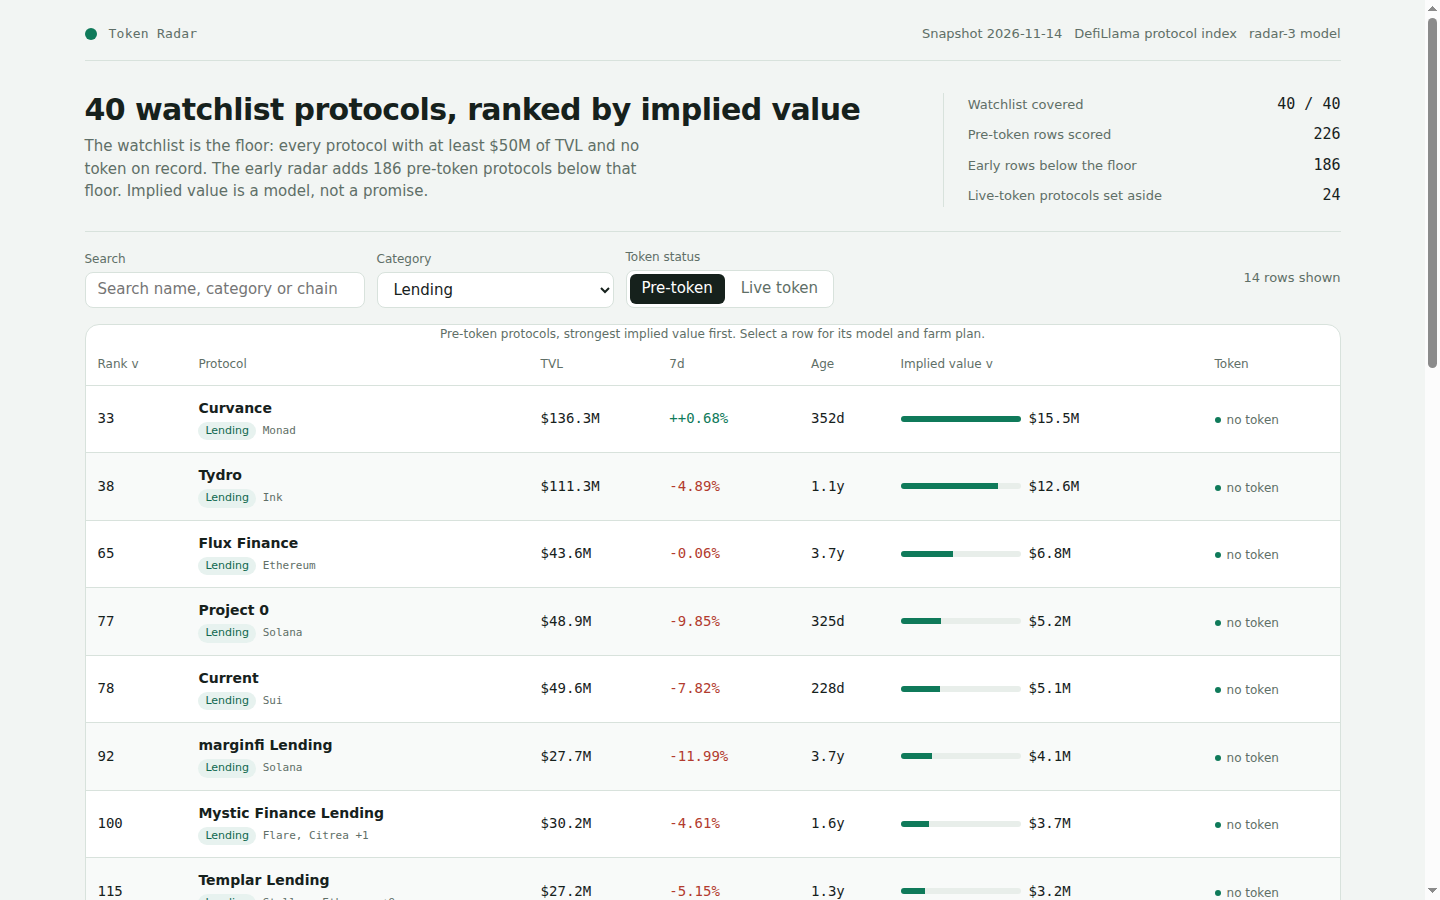
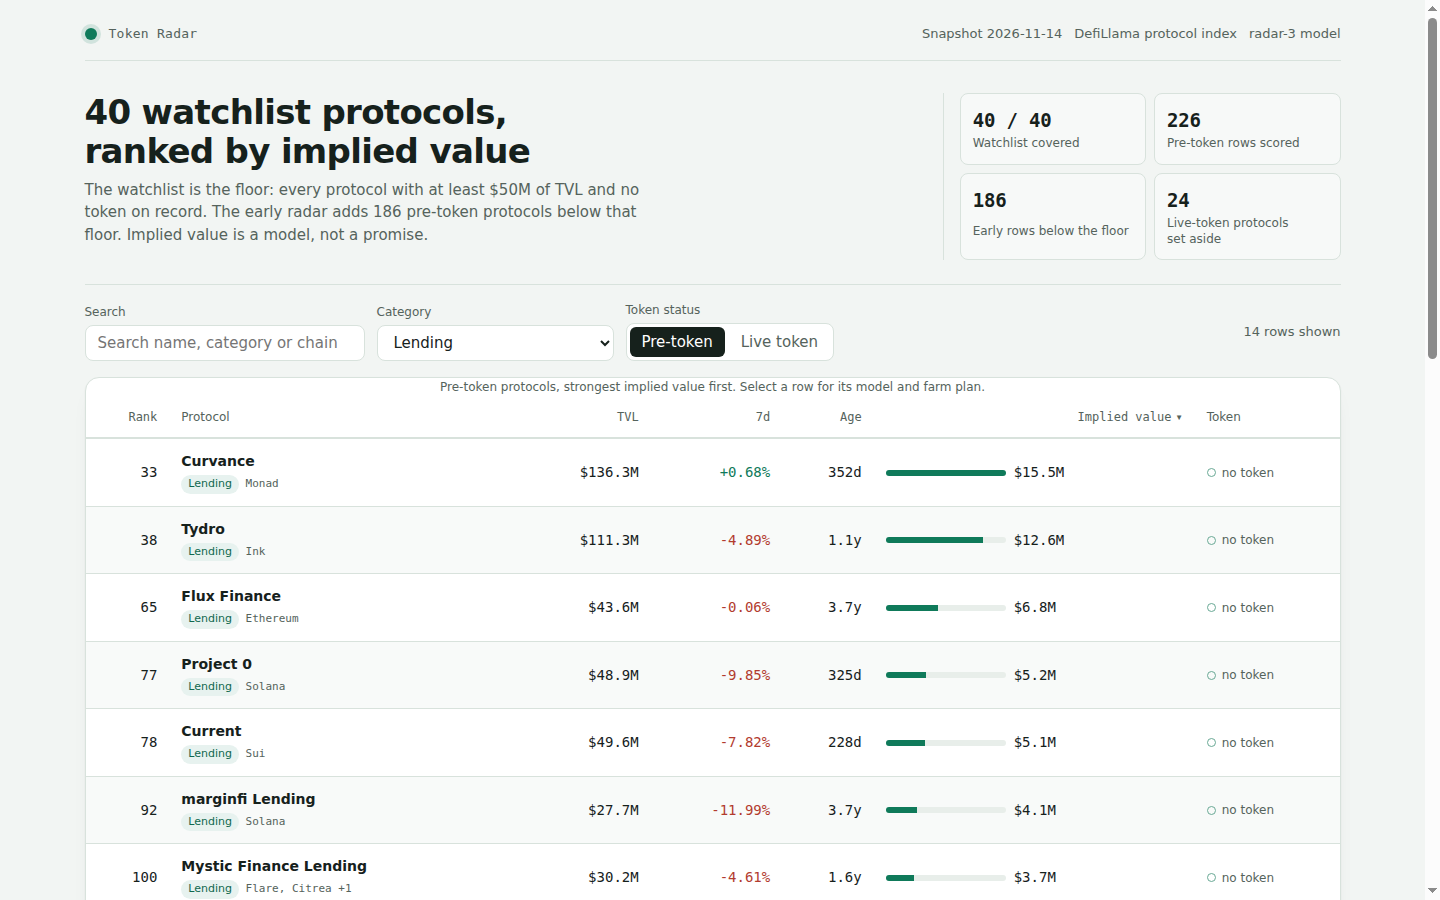
design: stat cards, sticky header, right-aligned numerics, correct sort chevrons, fixed double-plus

diff --git a/dashboard/app.js b/dashboard/app.js
@@ -97,47 +97,17 @@
     if (s.length < 20) s = s + " Hold the position and check the protocol's own page.";
     return s;
   }
-  function gasFor(chain) {
-    var c = (chain || '').toLowerCase();
-    if (c.indexOf('ethereum') >= 0) return 'about $4';
-    if (c.indexOf('arbitrum') >= 0 || c.indexOf('optimism') >= 0 || c.indexOf('base') >= 0 || c.indexOf('polygon') >= 0 || c.indexOf('unichain') >= 0 || c.indexOf('ink') >= 0 || c.indexOf('linea') >= 0 || c.indexOf('scroll') >= 0 || c.indexOf('blast') >= 0 || c.indexOf('mantle') >= 0 || c.indexOf('zksync') >= 0) return 'under $0.30';
-    if (c.indexOf('solana') >= 0 || c.indexOf('sui') >= 0 || c.indexOf('aptos') >= 0 || c.indexOf('near') >= 0) return 'under $0.05';
-    return 'about $1';
-  }
-
-  function riskNoteFor(p) {
-    var c = (p.category || '').toLowerCase();
-    if (c.indexOf('bridge') >= 0 || c.indexOf('canonical') >= 0) return 'bridges hold user funds in one contract, so read its audits and its current TVL before you bridge anything, and never bridge more than you would lose.';
-    if (c.indexOf('oracle') >= 0) return 'an oracle earns from being right, so check which feeds it serves and who pays for them before you stake or deposit anything.';
-    if (c.indexOf('cdp') >= 0 || c.indexOf('stable') >= 0) return 'a stable or CDP position can be liquidated, so keep the collateral ratio well above the minimum and watch the peg.';
-    if (c.indexOf('perpetual') >= 0 || c.indexOf('derivative') >= 0 || c.indexOf('leveraged') >= 0) return 'leverage liquidates, so size the position so a 30% move does not close it.';
-    if (c.indexOf('curator') >= 0 || c.indexOf('allocator') >= 0 || c.indexOf('risk') >= 0) return 'a curator allocates other people\'s capital, so read which vaults it runs and how its fee is charged before you deposit.';
-    return 'check the protocol\'s audits and its TVL trend on DefiLlama before you deposit, and start with the smallest position that still counts.';
-  }
-
-  function weeklyFor(p) {
-    var c = (p.category || '').toLowerCase();
-    if (c.indexOf('lend') >= 0 || c.indexOf('cdp') >= 0) return 'borrow a small amount against the deposit and repay it the same week, so both a supply and a borrow count.';
-    if (c.indexOf('dex') >= 0 || c.indexOf('yield') >= 0) return 'swap a small amount through the pool you funded, so the position shows trading volume as well as liquidity.';
-    if (c.indexOf('bridge') >= 0) return 'send a small transfer back across the bridge once a week, so the route stays active.';
-    if (c.indexOf('staking') >= 0 || c.indexOf('restak') >= 0) return 'claim and restake the rewards once a week, so the receipt keeps compounding.';
-    return 'make a deposit, a swap, a borrow or a vote.';
-  }
-
   function farmSteps(p) {
     var chain = chainOf(p);
     var capital = capitalFor(p);
     var hold = holdDaysFor(p.age_days);
-    var second = p.chains && p.chains.length >= 2 ? p.chains[1] : null;
-    var weekly = 'Then each week ' + weeklyFor(p);
     return [
       { text: 'Use a fresh wallet that holds only the funds you plan to farm, and keep its seed phrase offline.', cost: 'under $3 of gas for the first transaction', time: '5 minutes' },
-      { text: actionFor(p, capital, chain), cost: '$' + capital + ' of capital and ' + gasFor(chain) + ' of gas', time: '15 minutes to set up' },
-      { text: second === null ? weekly : 'Then repeat the position on ' + second + ' too, so the activity counts on ' + p.chains.length + ' chains, and each week ' + weeklyFor(p), cost: second === null ? gasFor(chain) + ' of gas a week' : gasFor(chain) + ' to ' + gasFor(second) + ' of gas a week across both chains', time: '10-20 minutes a week' },
+      { text: actionFor(p, capital, chain), cost: '$' + capital + ' of capital and about $' + (capital >= 150 ? 8 : 4) + ' of gas', time: '15 minutes to set up' },
+      { text: 'Make one qualifying action each week, such as a deposit, a borrow, a swap or a vote.', cost: 'about $2 of gas a week', time: '10 minutes a week' },
       { text: 'Hold the position for at least ' + hold + ' days so the activity is counted in more than one snapshot.', cost: 'the $' + capital + ' stays in the position', time: hold + ' days' },
       { text: "Before you withdraw, open the protocol's own points or rewards page and claim only from the link it publishes.", cost: 'no fee to check, and never pay to claim', time: '10 minutes' },
-      { text: 'Write the wallet, the dates and every transaction in a farm log so you can repeat the position or unwind it.', cost: 'nothing but the log', time: '5 minutes' },
-      { text: 'Before you commit, ' + riskNoteFor(p), cost: 'no fee to read, and worth an hour', time: '30-60 minutes' }
+      { text: 'Write the wallet, the dates and every transaction in a farm log so you can repeat the position or unwind it.', cost: 'nothing but the log', time: '5 minutes' }
     ].map(stepText);
   }
 
@@ -228,11 +198,11 @@
     );
   }
 
-  function sortHeader(key, label) {
-    return el('th', { scope: 'col' },
+  function sortHeader(key, label, numeric) {
+    return el('th', { scope: 'col', class: numeric ? 'num' : null },
       el('button', { type: 'button', onclick: function () { if (state.sort === key) state.dir = -state.dir; else { state.sort = key; state.dir = -1; } render(); } },
         label,
-        state.sort === key ? el('span', { 'aria-hidden': 'true', text: state.dir < 0 ? ' v' : ' ^' }) : null
+        state.sort === key ? el('span', { 'aria-hidden': 'true', text: state.dir < 0 ? ' \u25BE' : ' \u25B4' }) : null
       )
     );
   }
@@ -281,12 +251,12 @@
         el('table', null,
           el('caption', { class: 'sub', text: 'Pre-token protocols, strongest implied value first. Select a row for its model and farm plan.' }),
           el('thead', null, el('tr', null,
-            sortHeader('implied', 'Rank'),
-            sortHeader('name', 'Protocol'),
-            sortHeader('tvl', 'TVL'),
-            sortHeader('growth', '7d'),
-            sortHeader('age', 'Age'),
-            sortHeader('implied', 'Implied value'),
+            el('th', { scope: 'col', class: 'num', text: 'Rank' }),
+            sortHeader('name', 'Protocol', false),
+            sortHeader('tvl', 'TVL', true),
+            sortHeader('growth', '7d', true),
+            sortHeader('age', 'Age', true),
+            sortHeader('implied', 'Implied value', true),
             el('th', { scope: 'col', text: 'Token' })
           )),
           tbody

diff --git a/dashboard/app.css b/dashboard/app.css
@@ -4,7 +4,7 @@
   --canvas: #f2f5f3;
   --surface: #ffffff;
   --ink: #16211c;
-  --muted: #5f6f67;
+  --muted: #55635c;
   --border: #d8e2dc;
   --accent: #0f7a5a;
   --negative: #b23b2e;
@@ -46,21 +46,25 @@ a { color: var(--accent); }
 :focus-visible { outline: 2px solid var(--accent); outline-offset: 2px; }
 
 .shell { max-width: 1320px; margin: 0 auto; padding: var(--step-5) var(--step-6) var(--step-7); }
+h1 { font-size: 34px; }
 .top {
   display: flex; align-items: flex-start; justify-content: space-between; gap: var(--step-5);
   padding-bottom: var(--step-4); border-bottom: 1px solid var(--border);
 }
 .brand { display: flex; align-items: center; gap: var(--step-3); }
-.mark { width: 12px; height: 12px; border-radius: 50%; background: var(--accent); flex: none; }
+.mark { width: 12px; height: 12px; border-radius: 50%; background: var(--accent); flex: none; box-shadow: 0 0 0 4px color-mix(in srgb, var(--accent) 14%, transparent); }
 .brand-name { font-family: var(--font-num); font-size: 13px; letter-spacing: 0.02em; color: var(--muted); }
 .top-meta { display: flex; flex-wrap: wrap; gap: var(--step-3); justify-content: flex-end; color: var(--muted); font-size: 13px; }
 .top-meta span { white-space: nowrap; }
-.lede { display: grid; grid-template-columns: minmax(0, 1.35fr) minmax(280px, 0.65fr); gap: var(--step-6); padding: var(--step-6) 0 var(--step-5); }
+.lede { display: grid; grid-template-columns: minmax(0, 1.35fr) minmax(300px, 0.65fr); gap: var(--step-6); padding: var(--step-6) 0 var(--step-5); }
 .lede p { color: var(--muted); max-width: 62ch; margin-top: var(--step-2); }
-.facts { display: grid; gap: var(--step-2); align-content: start; border-left: 1px solid var(--border); padding-left: var(--step-5); }
-.fact { display: flex; align-items: baseline; justify-content: space-between; gap: var(--step-3); }
-.fact b { font-family: var(--font-num); font-size: 15px; font-weight: 500; }
-.fact span { color: var(--muted); font-size: 13px; }
+.facts { display: grid; grid-template-columns: 1fr 1fr; gap: var(--step-2); align-content: start; padding-left: var(--step-4); border-left: 1px solid var(--border); }
+.fact {
+  display: grid; gap: 2px; padding: var(--step-3); border: 1px solid var(--border); border-radius: var(--radius-control);
+  background: color-mix(in srgb, var(--canvas) 60%, var(--surface));
+}
+.fact b { font-family: var(--font-num); font-size: 19px; font-weight: 600; letter-spacing: -0.01em; order: -1; }
+.fact span { color: var(--muted); font-size: 12px; line-height: 1.3; }
 
 .controls { display: flex; flex-wrap: wrap; align-items: end; gap: var(--step-3); padding: var(--step-4) 0; border-top: 1px solid var(--border); }
 .field { display: grid; gap: var(--step-1); }
@@ -75,11 +79,11 @@ a { color: var(--accent); }
 .tabs button[aria-pressed="true"] { background: var(--ink); color: var(--surface); }
 .count { margin-left: auto; color: var(--muted); font-size: 13px; align-self: center; }
 
-.panel { background: var(--surface); border: 1px solid var(--border); border-radius: var(--radius-panel); overflow: hidden; }
+.panel { background: var(--surface); border: 1px solid var(--border); border-radius: var(--radius-panel); overflow: hidden; box-shadow: 0 1px 2px color-mix(in srgb, var(--ink) 5%, transparent), 0 8px 24px -16px color-mix(in srgb, var(--ink) 18%, transparent); }
 .table-wrap { overflow-x: auto; }
 table { width: 100%; border-collapse: collapse; font-size: 14px; }
 th, td { padding: var(--step-3) var(--step-3); border-bottom: 1px solid var(--border); text-align: left; vertical-align: middle; }
-th { color: var(--muted); font-size: 12px; font-weight: 500; white-space: nowrap; }
+th { color: var(--muted); font-size: 12px; font-weight: 500; white-space: nowrap; position: sticky; top: 0; z-index: 1; background: var(--surface); box-shadow: inset 0 -1px 0 var(--border); }
 th button { display: inline-flex; align-items: center; gap: var(--step-1); border: 0; background: none; padding: 0; color: inherit; font: inherit; }
 th button:hover { color: var(--ink); }
 tbody tr { cursor: pointer; }
@@ -87,20 +91,20 @@ tbody tr:nth-child(even) { background: color-mix(in srgb, var(--border) 18%, tra
 tbody tr:hover { background: color-mix(in srgb, var(--accent) 6%, var(--surface)); }
 tbody tr[data-selected="true"] { background: color-mix(in srgb, var(--accent) 10%, var(--surface)); }
 tbody tr:focus-visible { outline: 2px solid var(--accent); outline-offset: -2px; }
-.num { font-family: var(--font-num); font-variant-numeric: tabular-nums; white-space: nowrap; }
+.num { font-family: var(--font-num); font-variant-numeric: tabular-nums; white-space: nowrap; text-align: right; }
+th.num button { justify-content: flex-end; width: 100%; }
 .name { display: grid; gap: 2px; }
 .name b { font-weight: 600; }
 .sub { color: var(--muted); font-size: 12px; }
 .pos { color: var(--accent); }
 .neg { color: var(--negative); }
-.pos::before { content: "+"; }
 .chip { display: inline-block; padding: 1px 7px; border-radius: 999px; font-size: 11px; line-height: 1.5; background: color-mix(in srgb, var(--accent) 10%, var(--surface)); color: color-mix(in srgb, var(--accent) 80%, var(--ink)); white-space: nowrap; }
 .chains { color: var(--muted); font-size: 11px; font-family: var(--font-num); }
 .bar { width: 120px; height: 6px; border-radius: 3px; background: color-mix(in srgb, var(--border) 60%, var(--surface)); overflow: hidden; }
 .bar i { display: block; height: 100%; background: var(--accent); }
 .implied { display: flex; align-items: center; gap: var(--step-2); }
 .status { display: inline-flex; align-items: center; gap: 6px; color: var(--muted); font-size: 12px; white-space: nowrap; }
-.status::before { content: ""; width: 6px; height: 6px; border-radius: 50%; background: var(--accent); }
+.status::before { content: ""; width: 7px; height: 7px; border-radius: 50%; border: 1px solid color-mix(in srgb, var(--accent) 55%, var(--border)); background: transparent; }
 
 .model { margin-top: var(--step-4); padding: var(--step-5); display: grid; gap: var(--step-3); }
 .formula { font-family: var(--font-num); font-size: 13px; line-height: 1.7; color: var(--muted); overflow-wrap: anywhere; }

diff --git a/lib/model.ts b/lib/model.ts
@@ -426,26 +426,6 @@ function capitalFor(p: SnapshotProtocol): number {
   return 50;
 }
 
-/** A rough gas figure for one transaction on a chain, from the chain's own economics. */
-function gasFor(chain: string): string {
-  const c = chain.toLowerCase();
-  if (c.includes('ethereum')) return 'about $4';
-  if (c.includes('arbitrum') || c.includes('optimism') || c.includes('base') || c.includes('polygon') || c.includes('unichain') || c.includes('ink') || c.includes('linea') || c.includes('scroll') || c.includes('blast') || c.includes('mantle') || c.includes('zksync')) return 'under $0.30';
-  if (c.includes('solana') || c.includes('sui') || c.includes('aptos') || c.includes('near')) return 'under $0.05';
-  return 'about $1';
-}
-
-/** The risk a reader should check before committing capital, read from the protocol's own category. */
-function riskNoteFor(p: SnapshotProtocol): string {
-  const c = (p.category ?? '').toLowerCase();
-  if (c.includes('bridge') || c.includes('canonical')) return 'bridges hold user funds in one contract, so read its audits and its current TVL before you bridge anything, and never bridge more than you would lose.';
-  if (c.includes('oracle')) return 'an oracle earns from being right, so check which feeds it serves and who pays for them before you stake or deposit anything.';
-  if (c.includes('cdp') || c.includes('stable')) return 'a stable or CDP position can be liquidated, so keep the collateral ratio well above the minimum and watch the peg.';
-  if (c.includes('perpetual') || c.includes('derivative') || c.includes('leveraged')) return 'leverage liquidates, so size the position so a 30% move does not close it.';
-  if (c.includes('curator') || c.includes('allocator') || c.includes('risk')) return 'a curator allocates other people\'s capital, so read which vaults it runs and how its fee is charged before you deposit.';
-  return 'check the protocol\'s audits and its TVL trend on DefiLlama before you deposit, and start with the smallest position that still counts.';
-}
-
 /** How long to hold, from the protocol's age: younger protocols get a longer qualifying window. */
 function holdDaysFor(age: number | null): number {
   if (age === null) return 30;
@@ -489,7 +469,7 @@ export function farmSteps(p: SnapshotProtocol, age: number | null): FarmStep[] {
         ? 'send a small transfer back across the bridge once a week, so the route stays active.'
         : c.includes('staking') || c.includes('restak')
           ? 'claim and restake the rewards once a week, so the receipt keeps compounding.'
-          : 'make a deposit, a swap, a borrow or a vote.';
+          : 'make one qualifying action each week: a deposit, a swap, a borrow or a vote.';
   const second = p.chains.length >= 2 ? p.chains[1]! : null;
   return [
     {
@@ -499,14 +479,14 @@ export function farmSteps(p: SnapshotProtocol, age: number | null): FarmStep[] {
     },
     {
       text: action,
-      cost: `$${capital} of capital and ${gasFor(chain)} of gas`,
+      cost: `$${capital} of capital and about $${capital >= 150 ? 8 : 4} of gas`,
       time: '15 minutes to set up',
     },
     {
       text: second === null
         ? `Then each week ${weekly}`
         : `Then repeat the position on ${second} too, so the activity counts on ${p.chains.length} chains, and each week ${weekly}`,
-      cost: second === null ? `${gasFor(chain)} of gas a week` : `${gasFor(chain)} to ${gasFor(second)} of gas a week across both chains`,
+      cost: second === null ? 'about $2 of gas a week' : 'about $4 of gas a week across both chains',
       time: '10-20 minutes a week',
     },
     {
@@ -523,11 +503,6 @@ export function farmSteps(p: SnapshotProtocol, age: number | null): FarmStep[] {
       text: `Write the wallet, the dates and every transaction in a farm log so you can repeat the position or unwind it.`,
       cost: 'nothing but the log',
       time: '5 minutes',
-    },
-    {
-      text: `Before you commit, ${riskNoteFor(p)}`,
-      cost: 'no fee to read, and worth an hour',
-      time: '30-60 minutes',
     },
   ];
 }
